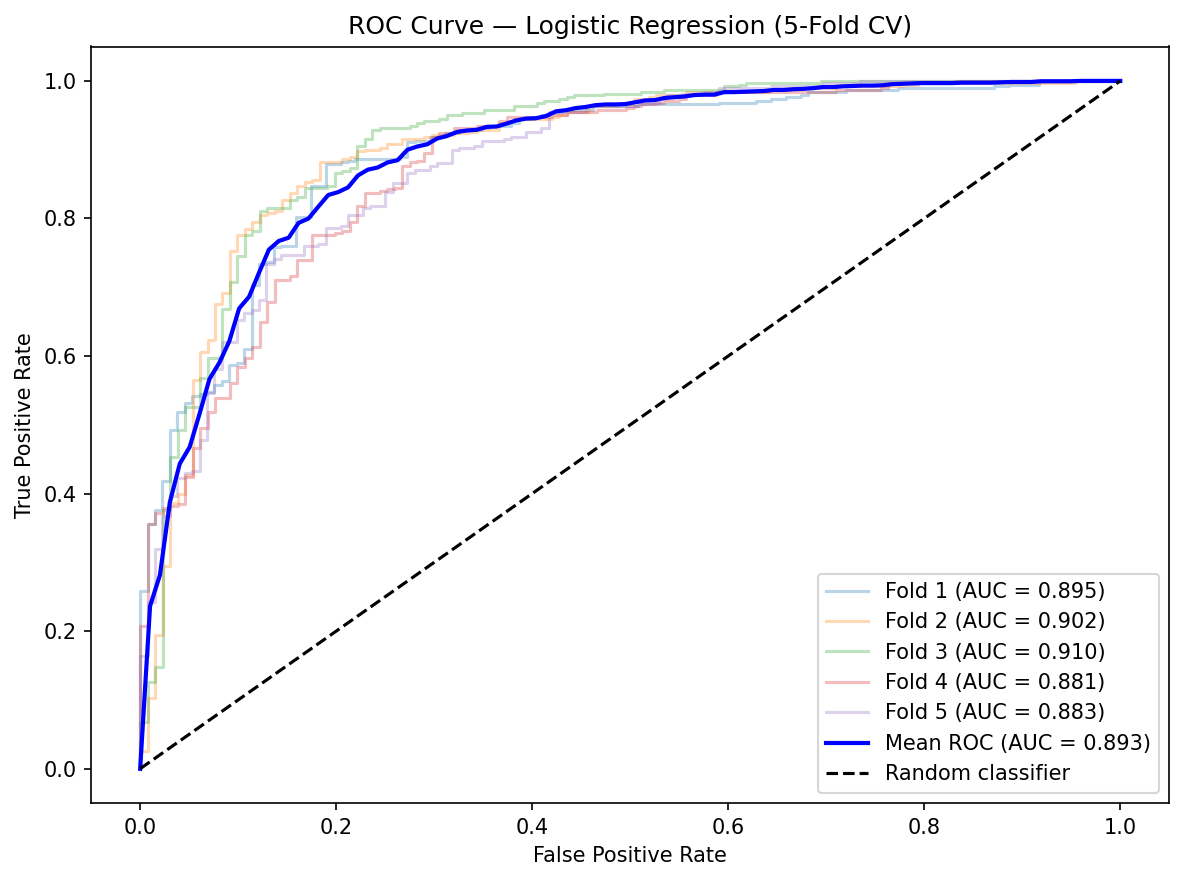
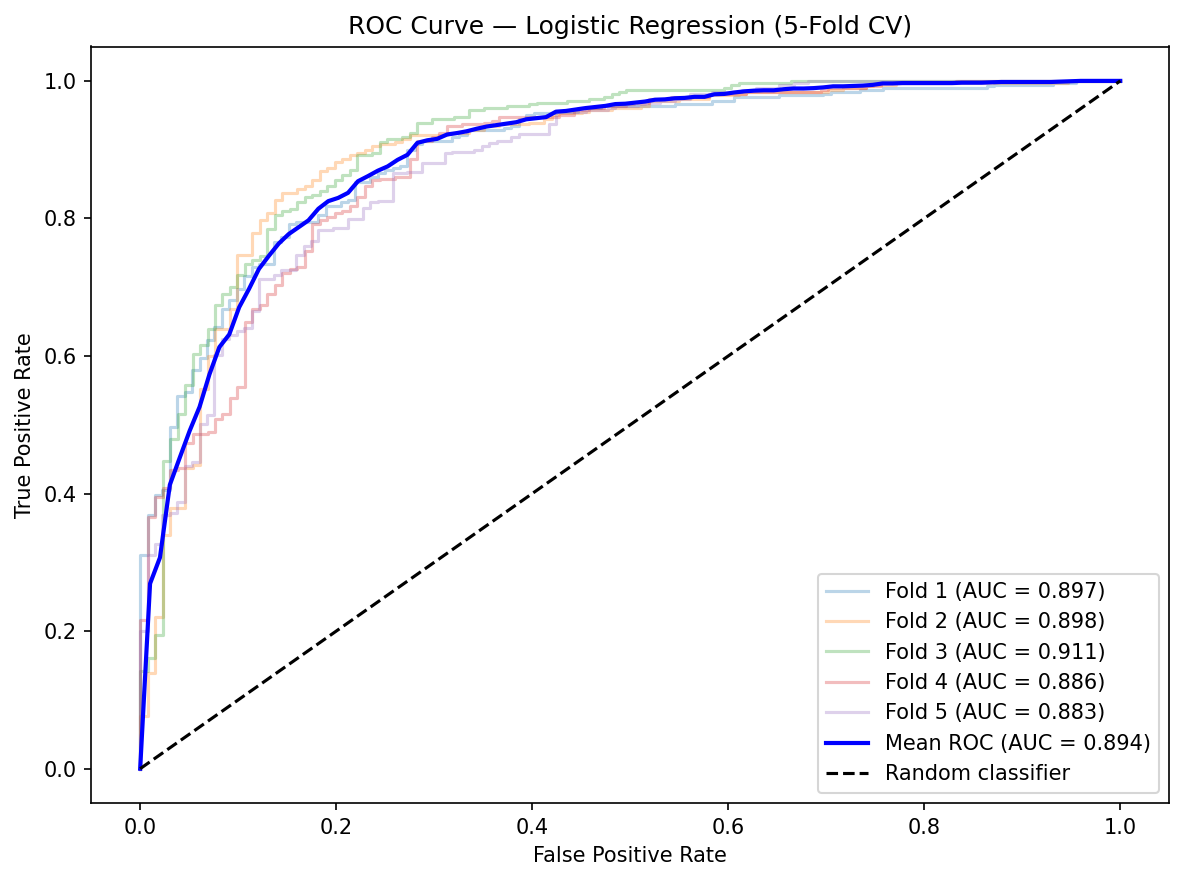
Renew

Changed region(s): [[0.0938, 0.0919, 0.7812, 0.8275], [0.9062, 0.6742, 0.9375, 0.7968], [0.9375, 0.8275, 0.9688, 0.8581]]

diff --git a/README.md b/README.md
@@ -2,19 +2,17 @@
 
 ![Python](https://img.shields.io/badge/Python-3.x-blue)
 ![scikit-learn](https://img.shields.io/badge/scikit--learn-ML-orange)
-![XGBoost](https://img.shields.io/badge/XGBoost-boosting-green)
-![statsmodels](https://img.shields.io/badge/statsmodels-time%20series-lightgrey)
 ![Kaggle](https://img.shields.io/badge/Kaggle-Competition-blue)
 
-> Predicting daily rainfall probability up to **730 days** into the future using a hybrid time series + clustering pipeline — built for my first Kaggle competition.
+> 🏆 My first Kaggle competition entry. Predicting daily rainfall probability using a KMeans + PCA + Logistic Regression pipeline.
 
 ---
 
 ## Overview
 
-This project tackles the challenge of long-horizon binary weather forecasting: given 7 years of historical meteorological data (2013–2019), predict whether it will rain on each day across the following two years (2020–2021).
+This project tackles binary rainfall prediction (rain / no rain) from daily meteorological data. The repository documents the full iterative development process — from a simple KMeans baseline to the final model, with an exploratory side-branch into time series decomposition that is kept in the archive for reference.
 
-The final solution combines classical time series decomposition with unsupervised clustering and dimensionality reduction to extract rich temporal and structural features, ultimately evaluated using cross-validated ROC-AUC.
+**Final approach:** cluster-based feature engineering (KMeans) combined with PCA dimensionality reduction, feeding into a tuned Logistic Regression classifier.
 
 ---
 
@@ -23,10 +21,10 @@ The final solution combines classical time series decomposition with unsupervise
 | Model | CV ROC-AUC |
 |-------|-----------|
 | RandomForest (baseline) | 0.878 |
-| LogisticRegression | 0.894 |
-| LogisticRegression + GridSearch (C=0.01, L2) | **0.894** |
+| Logistic Regression | 0.894 |
+| Logistic Regression + GridSearch (C=0.01, L2) | **0.894** |
 
-Final submission uses Logistic Regression with tuned hyperparameters (C=0.01, L2 penalty, balanced class weights), evaluated via 5-fold cross-validation.
+Final model: Logistic Regression, tuned via `GridSearchCV` (C=0.01, L2 penalty, balanced class weights), evaluated with 5-fold stratified cross-validation.
 
 ![ROC Curve](reports/figures/roc_curve.png)
 
@@ -36,9 +34,9 @@ Final submission uses Logistic Regression with tuned hyperparameters (C=0.01, L2
 
 ## Visualisations
 
-![Feature Importance](reports/figures/Feature_Importance.png)
+![Feature Importance](reports/figures/feature_importance.png)
 
-![PCA Explained Variance](reports/figures/PCA_variance_explained.png)
+![PCA Explained Variance](reports/figures/pca_variance.png)
 
 ![KMeans Elbow Chart](reports/figures/KMeans_elbow_chart.png)
 
@@ -52,39 +50,38 @@ Final submission uses Logistic Regression with tuned hyperparameters (C=0.01, L2
 Raw meteorological data
         │
         ▼
-Trend & Seasonality Modelling     ← DeterministicProcess + CalendarFourier (annual)
+Data cleaning              ← merge train + original dataset, fillna, drop id/day
         │
         ▼
-Deseasonalization                 ← LinearRegression fit subtracted from target
+Feature scaling            ← MinMaxScaler (cloud, sunshine, humidity)
         │
         ▼
-Periodogram Analysis              ← Frequency spectrum verification
+Clustering                 ← KMeans (k=2, elbow method) + centroid distance features
         │
         ▼
-Feature Engineering               ← Mutual information ranking, lag features, time index
+Dimensionality Reduction   ← PCA (StandardScaler + PCA on engineered features)
         │
         ▼
-Clustering                        ← KMeans (k=2, elbow method) + centroid distances
+Classification             ← Logistic Regression, GridSearchCV tuning
         │
         ▼
-Dimensionality Reduction          ← PCA on meteorological features
-        │
-        ▼
-Classification & Evaluation       ← XGBoost / LogisticRegression, cross-validated ROC-AUC
+Evaluation                 ← 5-fold stratified CV, ROC-AUC, confusion matrix
 ```
+
+> ⚠ **Note on data leakage:** an earlier version of this pipeline accidentally fit the `MinMaxScaler` and transformed the *training* data twice instead of transforming the held-out test data, which silently broke the KMeans cluster/centroid features for the test set. This has been fixed — `MinMaxScaler.transform()` is now correctly applied to the test split before clustering and PCA.
 
 ---
 
 ## Dataset
 
-| Split | Period | Days |
-|-------|--------|------|
-| Train | 2013–2019 | 2,556 |
-| Test | 2020–2021 | 730 |
+| Split | Description |
+|-------|-------------|
+| Train | Kaggle competition train set + original Rainfall dataset (merged) |
+| Test | Kaggle competition test set |
 
-**Features:** `cloud` · `sunshine` · `humidity` · `temperature` · `dewpoint` · `winddirection`
+**Features:** `pressure` · `maxtemp` · `temparature` · `mintemp` · `dewpoint` · `humidity` · `cloud` · `sunshine` · `winddirection` · `windspeed`
 
-Source: [Kaggle — Rainfall Prediction](https://www.kaggle.com/)
+Source: Kaggle Rainfall Prediction competition.
 
 ---
 
@@ -92,11 +89,10 @@ Source: [Kaggle — Rainfall Prediction](https://www.kaggle.com/)
 
 | Category | Libraries |
 |----------|-----------|
-| ML & Preprocessing | scikit-learn (KMeans, PCA, RandomForestRegressor, LogisticRegression), XGBoost |
-| Time Series | statsmodels (DeterministicProcess, CalendarFourier) |
-| Data | Pandas, NumPy, SciPy |
+| ML & Preprocessing | scikit-learn (KMeans, PCA, StandardScaler, MinMaxScaler, LogisticRegression, GridSearchCV) |
+| Data | Pandas, NumPy |
 | Visualisation | Matplotlib, Seaborn |
-| Environment | Jupyter Notebook |
+| Environment | Jupyter Notebook / Google Colab |
 
 ---
 
@@ -105,40 +101,39 @@ Source: [Kaggle — Rainfall Prediction](https://www.kaggle.com/)
 ```
 Rainfall/
 ├── data/
-│   ├── train.csv                  # Primary training set (2013–2019)
-│   ├── train2_0.csv               # Extended training set (version 0)
-│   ├── train2_1.csv               # Extended training set (version 1)
-│   ├── test.csv                   # Test set (2020–2021)
-│   ├── sample_submission.csv      # Kaggle submission template
-│   └── Rainfall.csv               # Full combined dataset
+│   ├── train.csv               # Kaggle training set
+│   ├── test.csv                # Kaggle test set
+│   └── Rainfall.csv            # Original supplementary dataset
 ├── notebooks/
-│   ├── 01_eda.ipynb               # Exploratory data analysis
-│   ├── 02_pca.ipynb               # PCA dimensionality reduction
-│   ├── 03_clustering.ipynb        # KMeans clustering
-│   ├── 04_feature_engineering.ipynb  # Lag features, Fourier terms, mutual information
-│   ├── 05_final_model.ipynb       # Final hybrid model
-│   └── archive/                   # Earlier experimental notebooks
-│       ├── 01_kmeans_pca.ipynb
-│       ├── 02_pca_analysis.ipynb
-│       ├── 03_kmeans_pca_v2.ipynb
-│       ├── 04_two_datasets_kmeans_pca.ipynb
-│       ├── 05_timeseries_lag.ipynb
-│       ├── 06_timeseries_baseline.ipynb
-│       ├── 07_timeseries_2clusters_trend.ipynb
-│       ├── 08_timeseries_2clusters.ipynb
-│       ├── 09_kmeans_pca_hyperparams.ipynb
-│       └── 10_timeseries_hybrid.ipynb
+│   ├── 05_final_model.ipynb    # Final model — KMeans + PCA + Logistic Regression
+│   └── archive/                # Earlier experiments, kept for reference
+│       ├── 01_kmeans_baseline.ipynb
+│       ├── 02_kmeans_v2.ipynb
+│       ├── 03_pca_initial.ipynb
+│       ├── 04_rain_baseline.ipynb
+│       ├── 05_kmeans_pca_combined.ipynb
+│       ├── 06_pca_variance_analysis.ipynb
+│       ├── 07_kmeans_pca_v2.ipynb
+│       ├── 08_two_datasets_kmeans_pca.ipynb
+│       ├── 09_two_datasets_kmeans_pca_v2.ipynb
+│       ├── 10_timeseries_baseline.ipynb
+│       ├── 11_timeseries_lag_features.ipynb
+│       ├── 12_timeseries_2clusters_trend.ipynb
+│       ├── 13_kmeans_pca_hyperparams.ipynb
+│       ├── 14_timeseries_hybrid.ipynb        # exploratory: Fourier seasonality + lag features
+│       └── 15_timeseries_2clusters.ipynb
 ├── reports/
 │   └── figures/
 │       ├── roc_curve.png
 │       ├── confusion_matrix.png
-│       ├── Feature_Importance.png
-│       ├── PCA_variance_explained.png
+│       ├── feature_importance.png
+│       ├── pca_variance.png
 │       ├── KMeans_elbow_chart.png
-│       └── Correlation_Heatmap.png├── requirements.txt
-├── LICENSE
+│       └── Correlation_Heatmap.png
 └── README.md
 ```
+
+> The `archive/` folder also includes a time-series exploration branch (Fourier seasonality, lag features, deseasonalization). It was not adopted for the final submission but is kept for reference and future iteration.
 
 ---
 
@@ -147,7 +142,7 @@ Rainfall/
 ```bash
 git clone https://github.com/zikmundmartin7-lab/Rainfall.git
 cd Rainfall
-pip install scikit-learn xgboost statsmodels pandas numpy scipy matplotlib seaborn
+pip install scikit-learn pandas numpy matplotlib seaborn requests
 ```
 
 Open the final notebook:
